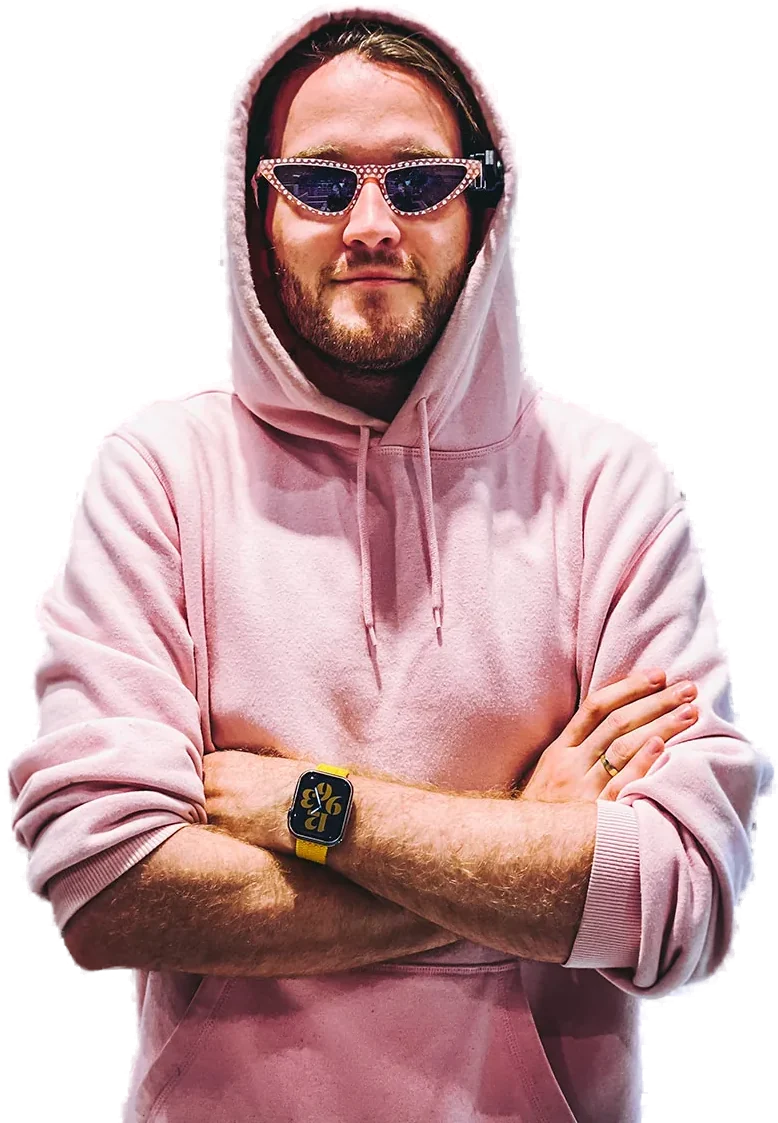
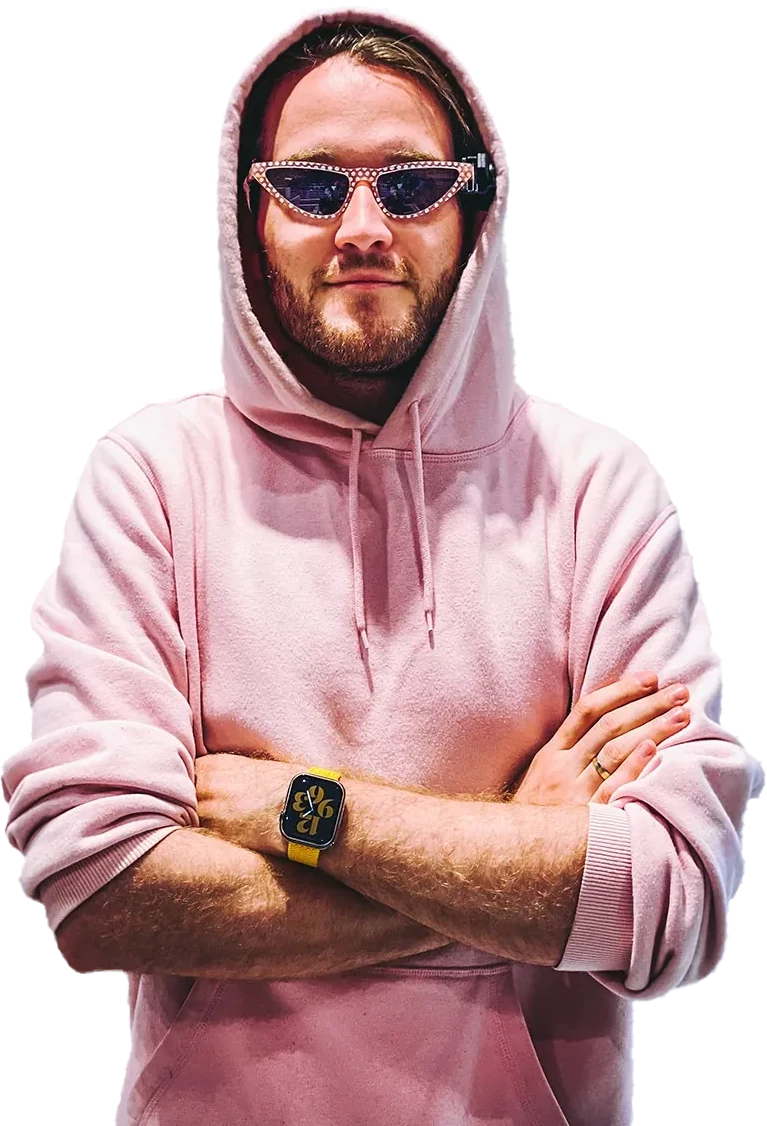
Hero: Piotr's own cut-out, drop status line, roles read 3D / UI

diff --git a/index.html b/index.html
@@ -21,7 +21,7 @@
   <link rel="preconnect" href="https://fonts.googleapis.com">
   <link rel="preconnect" href="https://fonts.gstatic.com" crossorigin>
   <link href="https://fonts.googleapis.com/css2?family=Archivo:wdth,wght@100..125,400..800&family=JetBrains+Mono:wght@400;500&display=swap" rel="stylesheet">
-  <link rel="stylesheet" href="assets/css/style.css?v=20261029c">
+  <link rel="stylesheet" href="assets/css/style.css?v=20261029d">
 </head>
 <body>
   <svg width="0" height="0" style="position:absolute" aria-hidden="true" focusable="false">
@@ -63,15 +63,14 @@
           <span class="hero__line hero__line--accent" style="--i:1">Artist<span class="caret" aria-hidden="true"></span></span>
         </h1>
         <div class="hero__copy">
-          <p class="hero__lead"><span class="hero__roles mono">Tech / VFX / Enviro / 3D&amp;UI</span>If there's anything graphics-related to do in Unity – I'm&nbsp;in!</p>
+          <p class="hero__lead"><span class="hero__roles mono">Tech / VFX / Enviro / 3D / UI</span>If there's anything graphics-related to do in Unity – I'm&nbsp;in!</p>
           <div class="hero__actions">
             <a class="btn btn--primary" href="#work">Explore my work <svg class="i" aria-hidden="true"><use href="#i-arrow-down"/></svg></a>
             <a class="btn btn--ghost" href="assets/Piotr-Osika-Resume.pdf" download>Download CV <span class="mono btn__tag">PDF</span></a>
           </div>
-          <p class="hero__status mono"><span class="dot" aria-hidden="true"></span>Technical Artist @ Ten Square Games</p>
         </div>
       </div>
-      <img class="hero__cutout" src="assets/img/me-cutout.webp" alt="Piotr Osika in a pink hoodie and sunglasses" width="778" height="1123" fetchpriority="high">
+      <img class="hero__cutout" src="assets/img/me-cutout.webp?v=2" alt="Piotr Osika in a pink hoodie and sunglasses" width="767" height="1126" fetchpriority="high">
       <p class="hero__stats mono" aria-hidden="true"><span>shader: hero_glass.frag</span><span class="stats">-- fps</span></p>
     </section>
 
@@ -246,7 +245,7 @@
     <p class="lightbox__count mono"></p>
   </div>
 
-  <script src="assets/js/data.js?v=20261029c"></script>
-  <script src="assets/js/main.js?v=20261029c" type="module"></script>
+  <script src="assets/js/data.js?v=20261029d"></script>
+  <script src="assets/js/main.js?v=20261029d" type="module"></script>
 </body>
 </html>

diff --git a/assets/css/style.css b/assets/css/style.css
@@ -95,7 +95,6 @@ body.locked { overflow: hidden; }
 /* stage: hello line + huge title sit behind the cut-out; copy and stats sit in front of it */
 .hero__stage { position: relative; }
 .hero__hello { position: relative; z-index: 1; margin: 0 0 .35em; font-size: clamp(18px, 2vw, 28px); font-weight: 500; color: #d5d9de; }
-.hero__status { display: inline-flex; align-items: center; gap: 10px; color: var(--muted); margin: 28px 0 0; }
 .dot { width: 8px; height: 8px; border-radius: 50%; background: var(--accent); box-shadow: 0 0 0 4px #35f2a724; }
 .hero__title { position: relative; z-index: 1; margin: 0; font-weight: 800; font-size: clamp(52px, 8.8vw, 168px); line-height: .86; letter-spacing: -.03em; text-transform: uppercase; }
 .hero__line { display: block; }
@@ -321,7 +320,7 @@ body.locked { overflow: hidden; }
 .hero__line { animation: bucketIn .7s var(--ease-out) calc(120ms + var(--i, 0) * 90ms) both; }
 .hero__cutout { animation: resolveIn .95s var(--ease-out) .15s both; }
 .hero__stats { animation: riseIn .5s var(--ease-out) .85s both; }
-.hero__hello, .hero__lead, .hero__actions, .hero__status { animation: fadeIn .6s var(--ease-out) .5s both; }
+.hero__hello, .hero__lead, .hero__actions { animation: fadeIn .6s var(--ease-out) .5s both; }
 .hero__facts { animation: fadeIn .6s var(--ease-out) .7s both; }
 
 /* ---------- card -> case study continuity (View Transitions) ---------- */

diff --git a/PRODUCT.md b/PRODUCT.md
@@ -51,7 +51,7 @@ What a neighbouring portfolio cannot claim: commercial real-time graphics work s
 ## Brand Commitments
 
 - Name and wordmark: "PIOTR/OSIKA".
-- Headline identity carried over from the original site: "Tech / VFX / Enviro / 3D&UI Artist" and the line "Hello! I'm Piotr. If there's anything graphics-related to do in Unity – I'm in!".
+- Headline identity carried over from the original site: hero title "Technical Artist" with the roles line "Tech / VFX / Enviro / 3D / UI" and "If there's anything graphics-related to do in Unity – I'm in!".
 - Voice: first person, casual and upbeat, plain English ("I've got your back when it comes to all graphic things in your project").
 
 ## Evidence on Hand
